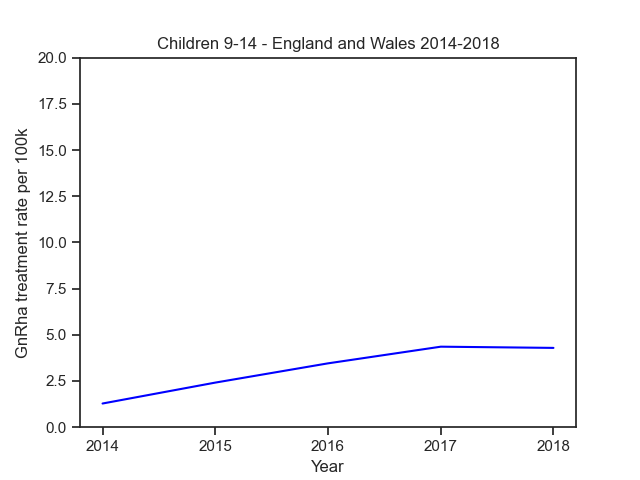
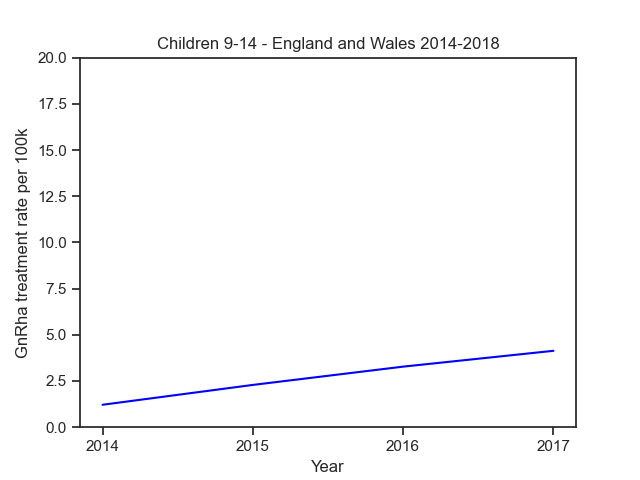
e+w-2000

diff --git a/src/gbr_gnrha_rate.py b/src/gbr_gnrha_rate.py
@@ -17,17 +17,17 @@ pop = pd.read_excel(f"./data/{pop_source}", skiprows=1, sheet_name="Single year 
 
 pop.index.names = ["year", "borough"]
 pop.columns.names = ["sex", "age"]
-eng_wls = pop.query("borough == 'England'")
+eng_wls = pop.query("borough == 'England and Wales'")
 eng_wls.sort_index(axis=1, inplace=True, ascending=True) 
 eng_wls.sort_index(inplace=True, ascending=True) 
 
 # select ages 9-14 between 2014-2018
 males = eng_wls.loc[
-        (2014, "England"):(2018, "England"), 
+        (2014, "England and Wales"):(2018, "England and Wales"), 
         ("M", 9):("M", 14)
         ]
 females = eng_wls.loc[
-        (2014, "England"):(2018, "England"), 
+        (2014, "England and Wales"):(2018, "England Wales"), 
         ("F", 9):("F", 14)
         ]
 
@@ -35,7 +35,6 @@ females = eng_wls.loc[
 males['total'] = males.sum(axis=1)
 females['total'] = females.sum(axis=1)
 total = males['total'] + females['total'] 
-
 
 
 
@@ -95,31 +94,31 @@ dfi.export(styled, f"results/{name}_table.png")
 print(eng_wls)
 
 males_12_17 = eng_wls.loc[
-        (2008, "England"):(2020, "England"), 
+        (2009, "England and Wales"):(2020, "England and Wales"), 
         ("M", 12):("M", 17)
         ]
 
 females_12_17 = eng_wls.loc[
-        (2008, "England"):(2020, "England"), 
+        (2009, "England and Wales"):(2020, "England Wales"), 
         ("F", 12):("F", 17)
         ]
 
 
 
-pop_m_2008 = males_12_17.loc[(2008, "England"), :].sum()
-pop_f_2008 = females_12_17.loc[(2008, "England"), :].sum()
+pop_m_2008 = males_12_17.loc[(2009, "England and Wales"), :].sum()
+pop_f_2008 = females_12_17.loc[(2009, "England and Wales"), :].sum()
 pop_total_2008 = pop_m_2008 + pop_f_2008
 
-pop_m_2020 = males_12_17.loc[(2020, "England"), :].sum()
-pop_f_2020 = females_12_17.loc[(2020, "England"), :].sum()
-pop_total_2020 = pop_m_2020 + pop_f_2020
+# pop_m_2020 = males_12_17.loc[(2020, "England and Wales"), :].sum()
+# pop_f_2020 = females_12_17.loc[(2020, "England and Wales"), :].sum()
+# pop_total_2020 = pop_m_2020 + pop_f_2020
 
-print((378 / pop_total_2020) * 100000)
+# print((378 / pop_total_2020) * 100000)
 
 cum_df = pd.DataFrame({
-    'pop_2008_12_17': [pop_total_2008, pop_f_2008, pop_m_2008],
-    'gnrha_gd_2008_2021': [851, None, None],
-    'cum_rate_per_12_17_100k': [(851 / pop_total_2008) * 100000, None, None]
+    'pop_2009_12_17': [pop_total_2008, pop_f_2008, pop_m_2008],
+    'gnrha_gd_2009_2020': [2000, None, None],
+    'cum_rate_per_12_17_100k': [(2000 / pop_total_2008) * 100000, None, None]
     },
     index=["total", "female", "male"])
 

diff --git a/src/nzl_gnrha_rate_2024.py b/src/nzl_gnrha_rate_2024.py
@@ -143,8 +143,11 @@ f_durations_0_11 = pd.DataFrame({
         "females_0_11_prev_5": inc["females_0_11"].rolling(window=5, min_periods=1).sum(),
     })
 
-
+print("incidence")
 print(inc)
+
+print("prevalence")
+print(prev)
 # m_durations_0_11.plot(kind="line", x="year")
 
 seaborn.set_theme()
